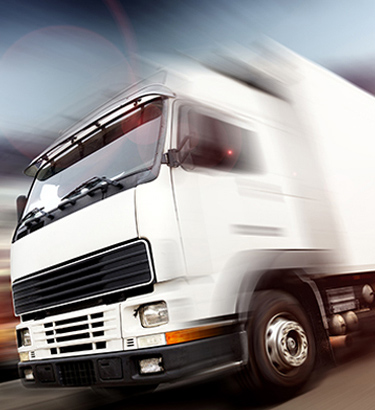
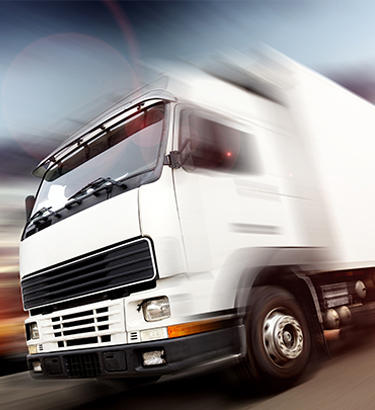
drop

diff --git a/public_html/index.html b/public_html/index.html
@@ -16,6 +16,7 @@
      </ul>
     </div>
 </header>
+
 <div class="menu-001">
     <div class="container list-inline">
         <div class="row">
@@ -23,13 +24,14 @@
               <img src="img/logo.png">
         </a>
         <ul class="nav navbar-nav navbar-right">
+		
             <li><a href="#">О компании</a></li>
             <li><a href="#">Прайс</a></li>
-            <li><a href="#" class="dropdown-toggle" data-toggle="dropdown">Услуги<b class="caret"></b></a>
+            <li class="dropdown"><a href="#" class="dropdown-toggle" data-toggle="dropdown">Услуги<b class="caret"></b></a>
                 <ul class="dropdown-menu">
                     <li><a href="#">Грузоперевозки</a></li>
-                    <li><a href="#" class="dropdown-toggle" data-toggle="dropdown">Аренда автотранспорта</a>
-                        <ul class="dropdown-menu">
+                    <li><a href="#" class="dropdown-toggle bullet pull-center" data-toggle="dropdown">Аренда автотранспорта</a>
+                        <ul class="dropdown-menu" role="menu">
                             <li><a href="#">Самосвалы</a></li>
                             <li><a href="#">Газель</a></li>
                             <li><a href="#">Валдай</a></li>
@@ -77,10 +79,30 @@
                        <img src="img/Pic4.jpg">
                        <span class="fa fa-search"></span>
                    </a>
-				   <a href="#" class="thumbnail">
-                       <img src="img/Pic5.jpg">
-                       <span class="fa fa-search"></span>
-                   </a>
+<div id="carousel-example-generic" class="carousel slide" data-ride="carousel">
+	<ol class="carousel-indicators">
+		<li data-target="#carousel-example-generic" data-slide-to="0" class="active"></li>
+		<li data-target="#carousel-example-generic" data-slide-to="1"></li>
+		<li data-target="#carousel-example-generic" data-slide-to="2"></li>
+	</ol>
+	<div class="carousel-inner">
+    <div class="item active">
+      <img src="img/Pic5.jpg">
+    </div>
+    <div class="item">
+      <img src="img/Pic4.jpg">
+    </div>
+	<div class="item">
+      <img src="img/Pic3.jpg">
+    </div>
+  </div>
+	<a class="left carousel-control" href="#carousel-example-generic" data-slide="prev">
+    <span class="glyphicon glyphicon-chevron-left"></span>
+  </a>
+	<a class="right carousel-control" href="#carousel-example-generic" data-slide="next">
+    <span class="glyphicon glyphicon-chevron-right"></span>
+  </a>
+</div>
                 </div>
                 <div class="col-lg-4">
                    <a href="#" class="thumbnail">
@@ -100,7 +122,6 @@
         
     </div>
 </div>
-
 <script src="https://code.jquery.com/jquery-1.10.2.min.js"></script>
 <script src="https://maxcdn.bootstrapcdn.com/bootstrap/3.3.6/js/bootstrap.min.js"></script>
 <script src="js/scripts.js"></script>
@@ -109,7 +130,7 @@
 
 
 
-//https://preview.webflow.com/preview/marcusssudropbox?preview=9e4fa3bd3c23c5dafac9e42b154d262e
+<!--https://preview.webflow.com/preview/marcusssudropbox?preview=9e4fa3bd3c23c5dafac9e42b154d262e
 ui elements
 =======
 //http://demo.magikthemes.com/index.php/fabiademo4#
@@ -121,3 +142,7 @@ ui elements
 //http://trendy.themes.tvda.eu/
 //http://www.bootply.com/73960
 
+------
+dropdown
+https://github.com/fullgod/bootstrap_dropdowns_enhancement/tree/master/dist/css
+-->

diff --git a/public_html/css/style.css b/public_html/css/style.css
@@ -45,8 +45,16 @@
 .menu-001 .navbar-nav > li > .dropdown-menu {
   background-color: #10294f;
   border-top: 3px solid #2964bc;
-  left: -66%;
+  left: 0;
+  right: auto;
   padding: 15px 13px 15px 20px;
+}
+.menu-001 .dropdown-menu.bullet {
+    margin-top: 8px;
+}
+.menu-001 .dropdown-menu.pull-center {
+    right: 50%;
+    left: auto;
 }
 .menu-001 .navbar-nav > li > .dropdown-menu:after, 
 .menu-001 .navbar-nav > li > .dropdown-menu:before {
@@ -130,7 +138,8 @@
 }
 .gallery-001 .thumbnail img {
     display: block;
-    width: 100%;
+    min-width: 380px;
+    height: 100%;
     transition: opacity .2s linear;
 }
 .gallery-001 .thumbnail:hover img {
@@ -139,15 +148,11 @@
 .gallery-001 .thumbnail:hover span {
   opacity: 1;
 }
-
-
-
-.gallery-001 .thumbnail.pad-t-r {
-    padding: 10px 0 0 0;
+.gallery-001  .carousel {
+    margin: 5px 5px;
 }
-.gallery-001 .thumbnail.pad-t-b {
-    padding: 10px 0 10px 0;
-}
-.gallery-001 .thumbnail.pad-l-t {
-    padding: 10px 0 10px 0;
+.gallery-001  .carousel-inner>.item>img, 
+.gallery-001 .carousel-inner>.item>a>img {
+    height: 100%;
+    min-width: 380px;
 }

diff --git a/public_html/js/scripts.js b/public_html/js/scripts.js
@@ -1,6 +1,6 @@
 (function($){
 	$(document).ready(function(){
-		$('ul.dropdown-menu [data-toggle=dropdown]').on('click', function(event) {
+		$('ul.dropdown-menu [data-toggle=dropdown]').on('hover', function(event) {
 		event.preventDefault(); 
 		event.stopPropagation(); 
 		$(this).parent().siblings().removeClass('open');
